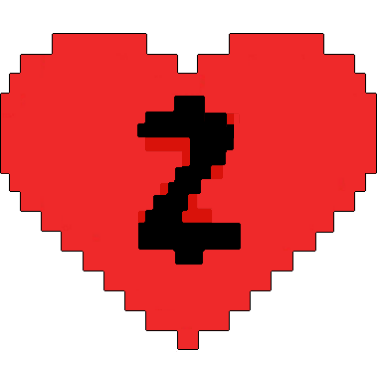
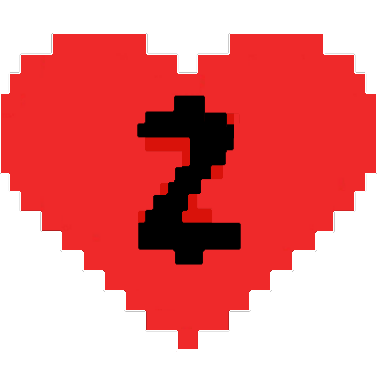
border tweaks

diff --git a/src/components/Board.js b/src/components/Board.js
@@ -6,7 +6,7 @@ import logo from "../zcash-icon.png"
 import Pusher from 'pusher-js';
 import {Link} from "react-router-dom";
 import like from "../380zheart.png"
-import darklike from "../380zheart.png"
+import darklike from "../380zheartdark.png"
 import qricon from "../icons/qr.png"
 import AOS from 'aos'
 import 'aos/dist/aos.css';
